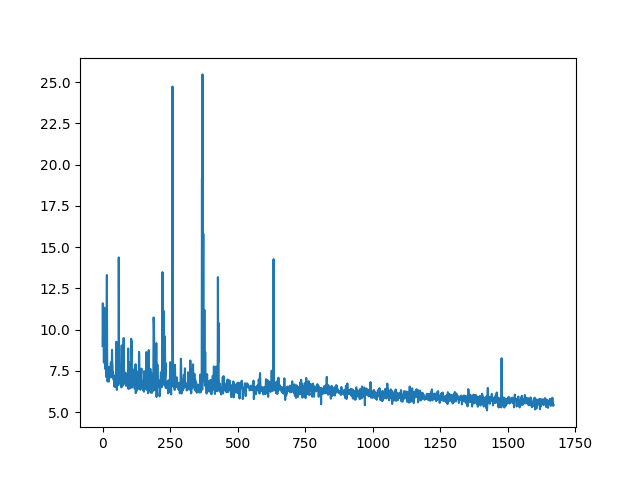
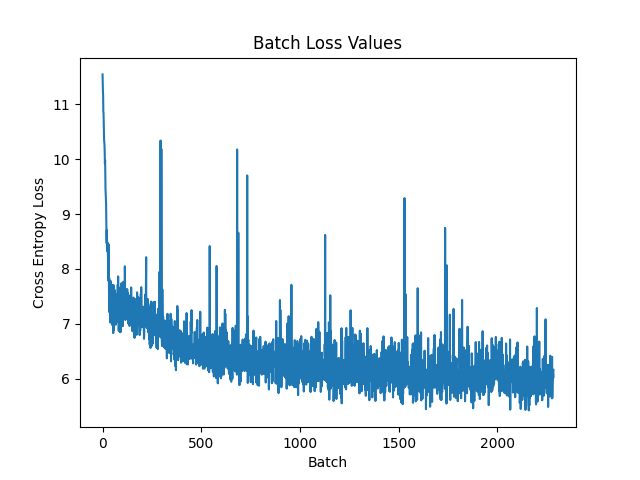
Implemented positional embedding

diff --git a/T1000.py b/T1000.py
@@ -2,6 +2,7 @@ from dataclasses import dataclass
 import torch
 import torch.nn as nn
 import torch.nn.functional as F
+import math
 
 @dataclass
 class GPTConfig:
@@ -24,6 +25,29 @@ class RMSNorm(nn.Module):
         rms = torch.sqrt((x ** 2).mean(dim=-1, keepdim=True) + self.eps)
         norm_x = x / rms
         return norm_x * self.scale
+    
+class SinusoidalPositionalEmbedding(nn.Module):
+    def __init__(self, d_model: int, max_seq_len: int = 5000):
+        super().__init__()
+        self.d_model = d_model
+        
+        # Create constant positional encoding matrix
+        pe = torch.zeros(max_seq_len, d_model)
+        position = torch.arange(0, max_seq_len, dtype=torch.float).unsqueeze(1)
+        div_term = torch.exp(torch.arange(0, d_model, 2).float() * (-9.21 / d_model)) # 9.21 = log(10000)
+        
+        # Apply sine to even indices
+        pe[:, 0::2] = torch.sin(position * div_term)
+        # Apply cosine to odd indices
+        pe[:, 1::2] = torch.cos(position * div_term)
+        
+        # Register as buffer (not a parameter)
+        self.register_buffer('pe', pe)
+    
+    def forward(self, x: torch.Tensor) -> torch.Tensor:
+        # x shape: [seq_len, d_model] or [batch_size, seq_len, d_model]
+        seq_len = x.size(-2)
+        return self.pe[:seq_len, :]
 
 class AttentionHead(nn.Module):
     def __init__(self, cfg: GPTConfig):
@@ -78,6 +102,7 @@ class Transformer(nn.Module):
     def __init__(self, cfg: GPTConfig):
         super().__init__()
         self.embedding = nn.Embedding(cfg.d_vocab, cfg.d_model)
+        self.pos_embedding = SinusoidalPositionalEmbedding(cfg.d_model)
         nn.init.normal_(self.embedding.weight, mean=0.0, std=0.02)
         self.MHA_layers = nn.ModuleList([MultiHeadedAttention(cfg) for _ in range(cfg.n_layers)])
         self.MLP_layers = nn.ModuleList([MLP(cfg) for _ in range(cfg.n_layers)])
@@ -89,6 +114,7 @@ class Transformer(nn.Module):
     
     def forward(self, x: torch.Tensor) -> torch.Tensor:
         X = self.embedding(x)
+        X = X + self.pos_embedding(X)
         for i in range(len(self.MHA_layers)):
             attn_input = self.attn_norms[i](X)
             attn_output = self.MHA_layers[i](attn_input)

diff --git a/main.py b/main.py
@@ -136,5 +136,8 @@ model = Transformer(config)
 print(f"Model vocab size: {model.embedding.num_embeddings}")
 batch_losses = train_transformer(model, int_sequences, num_epochs=1, batch_size=1)
 plt.plot(batch_losses)
+plt.title("Batch Loss Values")
+plt.xlabel("Batch")
+plt.ylabel("Cross Entropy Loss")
 plt.savefig("batch_loss_values.png")
 torch.save(model, "model.pt")

diff --git a/README.md b/README.md
@@ -34,7 +34,7 @@ This repository contains our group's implementation of a transformer model from 
 - Contributed to the training setup in `main.py`, ensuring compatibility with the updated model, finalized by March 14, 2025.
 - Supported team communication by confirming task feasibility (e.g., embeddings timeline), completed by March 14, 2025.
 
-### LLM Contributions (Grok 3 by xAI)
+### LLM Contributions (Grok 3 by xAI) - Griffin Rutherford
 
 #### Assisted Team Members:
 - Provided detailed code and explanations for RMSNorm implementation, used from March 12–14, 2025.
@@ -47,6 +47,18 @@ This repository contains our group's implementation of a transformer model from 
 - *Most Useful*: Code generation and normalization theory.
 - *Least Useful*: Required human verification for test-specific fixes.
 - *Transcript*: `llm-transcripts/Griffin-Rutherford-LLM-Transcript.pdf`.
+
+### LLM Contributions (Claude Sonnet 3.7 by Anthropic) - Alex Fruge
+
+#### Assisted Team Members:
+- Provided background on positional embeddings, why they are important, and how they work.
+- Created rough process for how to implement positional embeddings into current code.
+- Verified that implementation of positional embeddings held logically and correct math was used.
+
+**Usage Details:**
+- *Most Useful*: Code generation and explaining positional embeddings; fixed misconceptions I had
+- *Least Useful*: Nothing of note
+- *Transcript* `https://claude.ai/share/869a90b9-b3ab-40cb-ad76-cd56a6b98735`
 
 ## Project Structure
 
